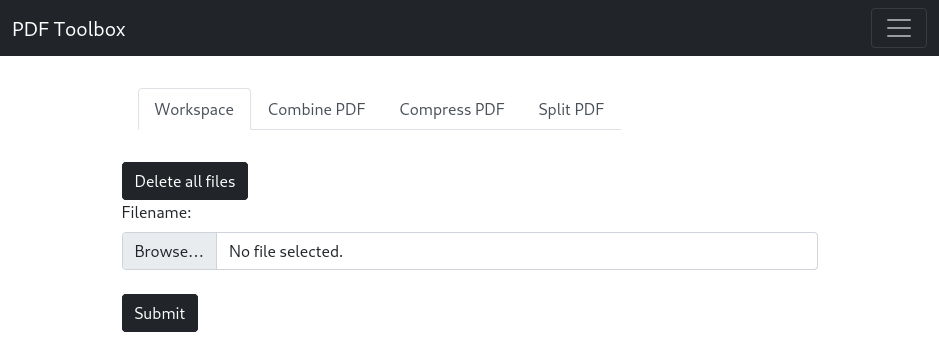
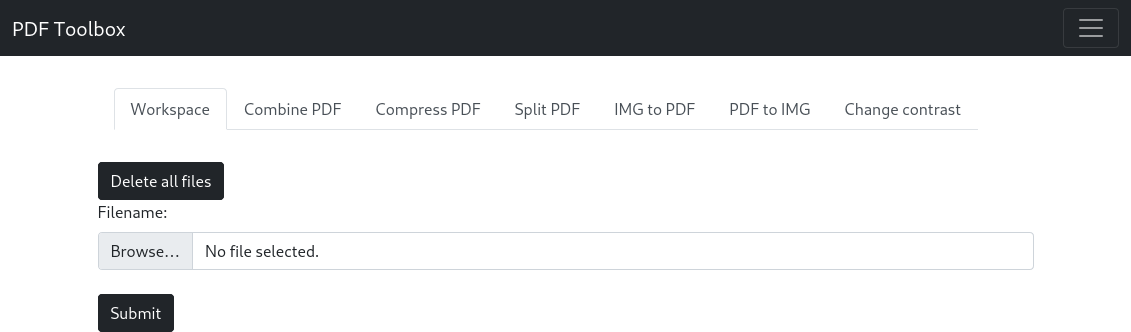
v0.4.2 (#10)
* Updates README.md

* Update README.

* Change tabs order.

* Make tabs order more logical.

* Add dependencies in README.

diff --git a/README.md b/README.md
@@ -1,6 +1,6 @@
 # Web PDF Toolbox
 
-Very simple web toolbox to combine, compress, and split PDF using [Ghostscript](https://www.ghostscript.com/).
+Very simple web toolbox to combine, compress, split PDF, and convert between images and PDF, and change contrast of PDF using [Ghostscript](https://www.ghostscript.com/) and [ImageMagick](https://imagemagick.org/index.php).
 
 ![Screenshot of Web PDF Toolbox](https://raw.githubusercontent.com/natpuch/web-pdf-toolbox/main/img/screenshot.png)
 
@@ -14,8 +14,9 @@ Deploying _Web PDF Toolbox_ through Docker CLI is only recommended for testing (
 
 ```bash
 docker run \
-	-p 25568:80
-	-v './pdf/':/tmp/pdf/
+	-p 25568:80 \
+	--env TZ=Europe/Paris \
+	-v './pdf/':/tmp/pdf/ \
 	zpex/web-pdf-toolbox
 ```
 
@@ -30,10 +31,18 @@ services:
   web-pdf-toolbox:
     container_name: web-pdf-toolbox
     image: zpex/web-pdf-toolbox
+    environment:
+      - TZ=Europe/Paris
     ports:
       - 25568:80
     volumes:
         - ./pdf/:/tmp/pdf/
 ```
 
+## Dependencies
+- [Bootstrap](https://getbootstrap.com/): [MIT License](https://github.com/twbs/bootstrap/blob/main/LICENSE)
+- [JQuery](https://jquery.com/): [MIT License](https://github.com/jquery/jquery/blob/main/LICENSE.txt)
+- [Ghostscript](https://www.ghostscript.com/): [GNU Affero General Public License](https://www.gnu.org/licenses/agpl-3.0.en.html)
+- [ImageMagick](https://imagemagick.org/index.php): [ImageMagick License](https://imagemagick.org/script/license.php)
+- [Bash on steroids](hhttps://github.com/tinoschroeter/bash_on_steroids)
 
